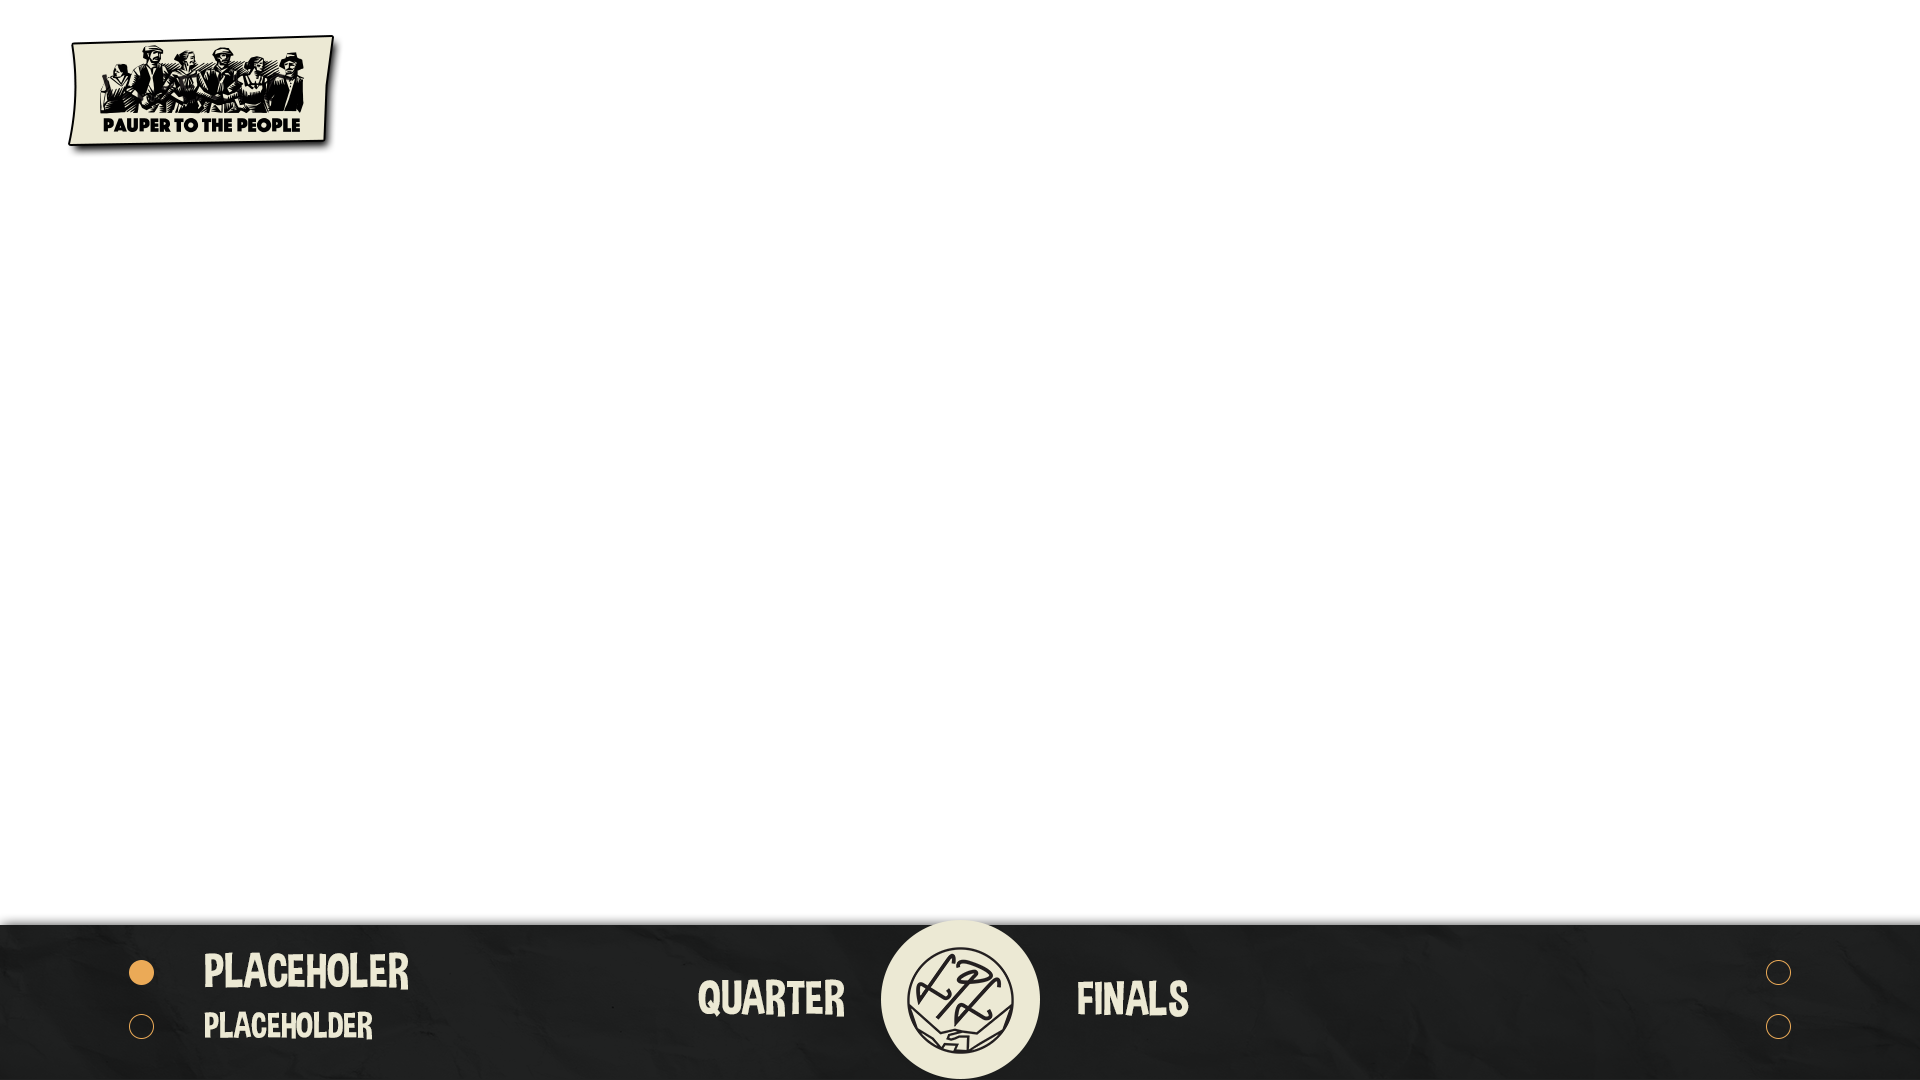
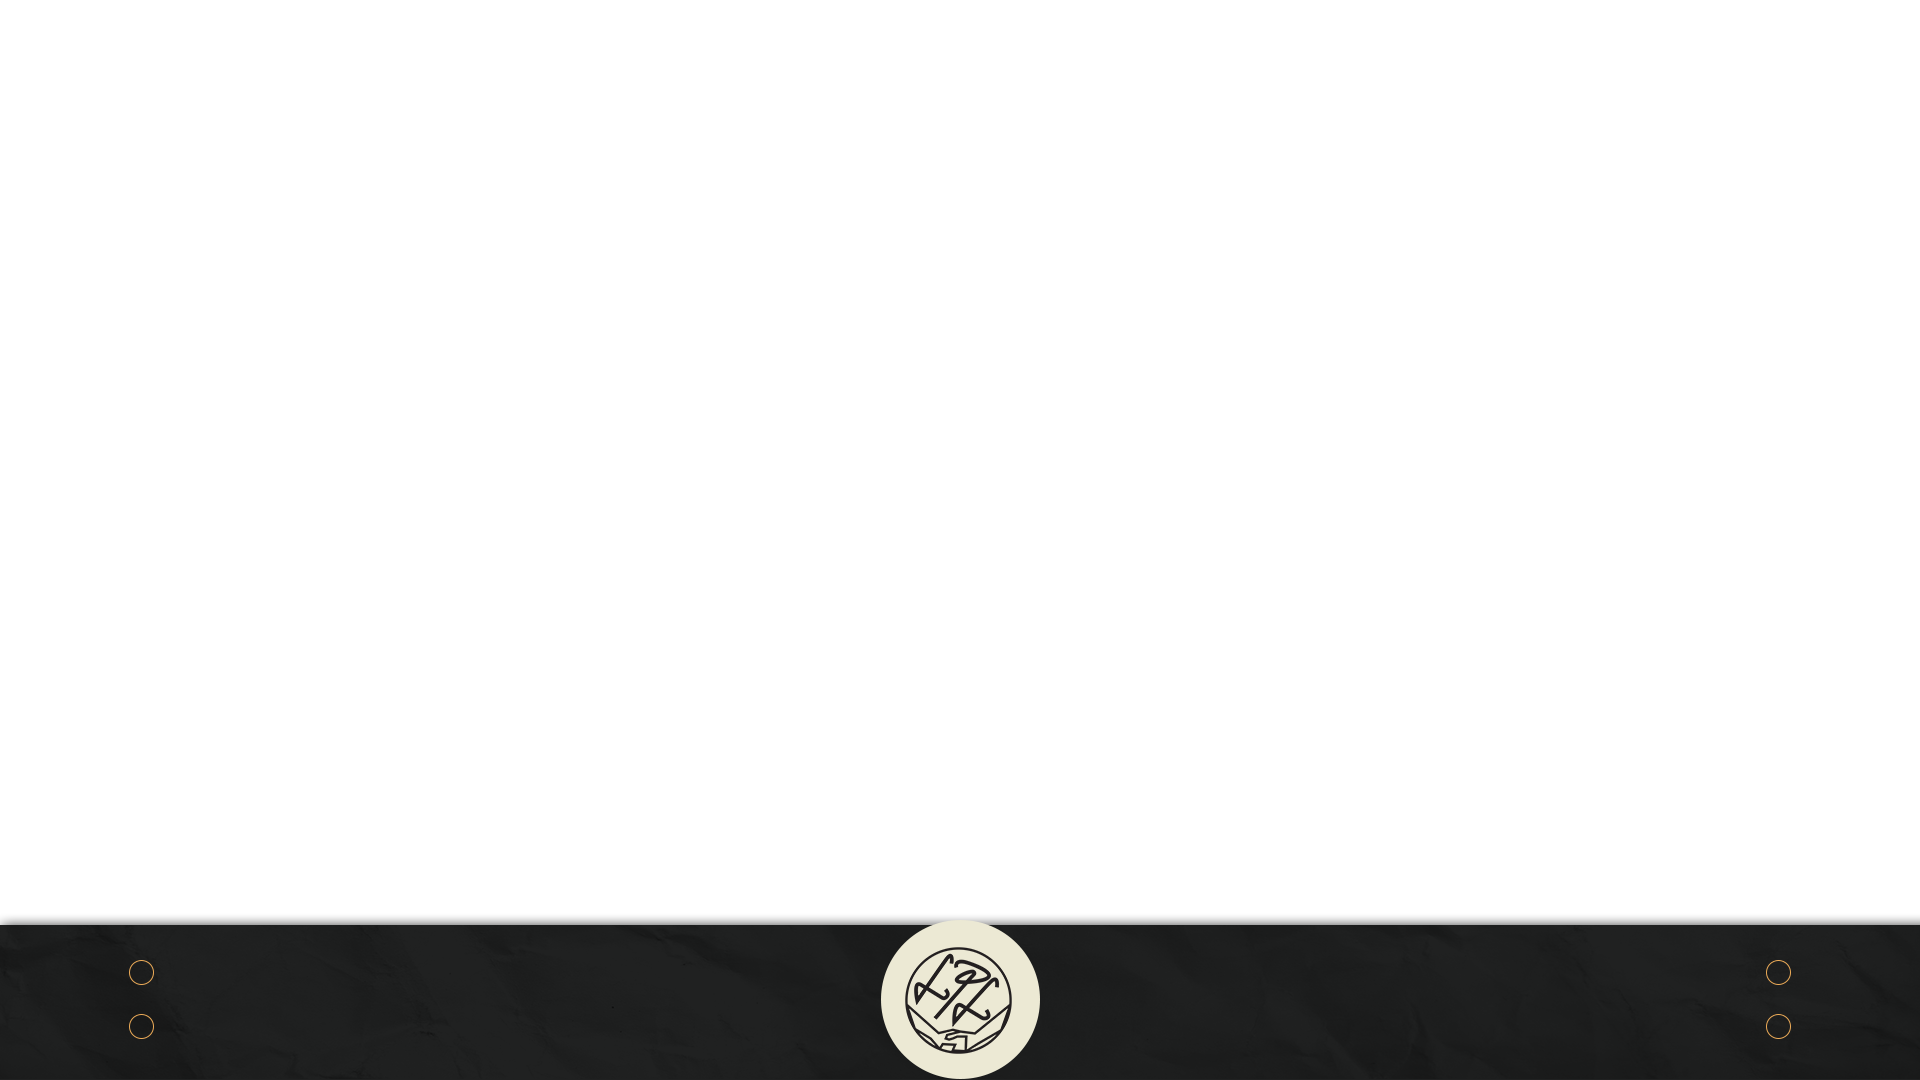
stuff

diff --git a/PAUPER/Ingame_no_colors.html b/PAUPER/Ingame_no_colors.html
@@ -4,32 +4,41 @@
         <title>INGAME</title>
         <link rel="stylesheet" href="Pauperingame.css">
     </head>
-    <img src="INGAME_OVERLAY">
     <body>
+        <div>
+            <img src="IMAGES/INGAME.png" style="position: fixed;">
+            <img src="IMAGES/Left_Win_1.png" id="LeftWin" style="position: fixed;">
+            <img src="IMAGES/Right_Win_1.png" id="RightWin" style="position: fixed;">
+            <img src="" id="LeftStage" style="position: fixed;">
+            <img src="IMAGES/Finals Text.png" id="RightStage" style="position: fixed;">
+        </div>
         <span id="PlayerLeft" class="LPlayer"></span>
         <span id="PlayerRight" class="RPlayer"></span>
-        <div>
-            <img src="SCOREPOINT.png" id="LeftWin" style="position: absolute; top: 585px; left: 165px;">
-            <img src="SCOREPOINT.png" id="RightWin" style="position: absolute; top: 696px; left: 165px;">
-        </div>
+        <span id="DeckLeft" class="LDeck"></span>
+        <span id="DeckRight" class="RDeck"></span>
         <!-- JAVASCRIPT STUFF-->
         <!-- Import Updater -->
-        <script src="Updater.js"></script>
+        <script src="JAVASCRIPT/Updater.js"></script>
         <script>
             const settings = {
 'switch' : {
-                    'A29': {
+                    'A32': {
                         '1': 'LeftWin',
                     },
-                    'A31': {
+                    'A34': {
                         '1': 'RightWin',
                     }
                 },
+                'image' : {
+                    'A2' : 'LeftStage'
+                },
                 'string' : {
-                    'A35' : 'PlayerLeft',
-                    'A31' : 'ScoreLeft',
-                    'A35' : 'PlayerRight',
-                    'A31' : 'ScoreRight',
+                    'A4' : 'PlayerLeft',
+                    'A6' : 'PlayerRight',
+                    'B2' : 'StageIdentifier_1',
+                    'C2' : 'StageIdentifier_2',
+                    'A8' : 'DeckLeft',
+                    'A10' : 'DeckRight',
                 }
             };
             const spreadsheetID = '1L_WuG6Z3SlaZy1lvvXWb8FkDNvVN9hLf5isXD5kyXx4'

diff --git a/PAUPER/Casterdesk.html b/PAUPER/Casterdesk.html
@@ -2,20 +2,20 @@
 <html>
     <head>
         <title>DESK</title>
-        <link rel="stylesheet" href="Pauperdesk.css">
+        <link rel="stylesheet" href="Desk.css">
     </head>
-    <img src="INGAME_OVERLAY">
+    <img src="IMAGES/test.png" style="position: fixed;">
     <body>
         <span id="CasterLeft" class="LCaster"></span>
         <span id="CasterRight" class="RCaster"></span>
         <!-- JAVASCRIPT STUFF-->
         <!-- Import Updater -->
-        <script src="Updater.js"></script>
+        <script src="JAVASCRIPT/Updater.js"></script>
         <script>
             const settings = {
                 'string' : {
-                    'A4' : 'CasterLeft',
-                    'A6' : 'CasterRight',
+                    'A36' : 'CasterLeft',
+                    'A38' : 'CasterRight',
                 }
             };
             const spreadsheetID = '1L_WuG6Z3SlaZy1lvvXWb8FkDNvVN9hLf5isXD5kyXx4'

diff --git a/PAUPER/Pauperingame.css b/PAUPER/Pauperingame.css
@@ -1,0 +1,49 @@
+@font-face {
+    font-family: dimbo;
+    font-style: normal;
+    src: url(FONTS/dimbo\ regular.ttf);
+}
+body {
+margin: 0px auto;
+overflow: hidden;
+font-family: dimbo;
+text-transform: uppercase;
+font-size: 48px;
+font-weight: 100;
+color: #ece9d4;
+}
+.LPlayer {
+    position: absolute;
+    top: 940px;
+    left: 207px;
+}
+.RPlayer {
+    position: absolute;
+    top: 940px;
+    left: 1514px;
+}
+.LDeck {
+    font-size: 36px;
+    position: absolute;
+    top: 1003px;
+    left: 207px;
+}
+.RDeck {
+    font-size: 36px;
+    position: absolute;
+    top: 1003px;
+    left: 1514px;
+}
+.Stage1 {
+    position: absolute;
+    top: 970px;
+    left: 697px;
+    margin:0 auto;
+    text-align:right;
+    width: 50px;
+}
+.Stage2 {
+    position: absolute;
+    top: 970px;
+    left: 1077px;
+}

diff --git a/PAUPER/Desk.css b/PAUPER/Desk.css
@@ -1,0 +1,15 @@
+@font-face {
+    font-family: dimbo;
+    font-style: normal;
+    src: url(FONTS/dimbo\ regular.ttf);
+}
+body {
+margin: 0px auto;
+overflow: hidden;
+font-family: dimbo;
+text-transform: uppercase;
+font-size: 40px;
+font-weight: 100;
+color: #202121;
+text-align: left;
+}
